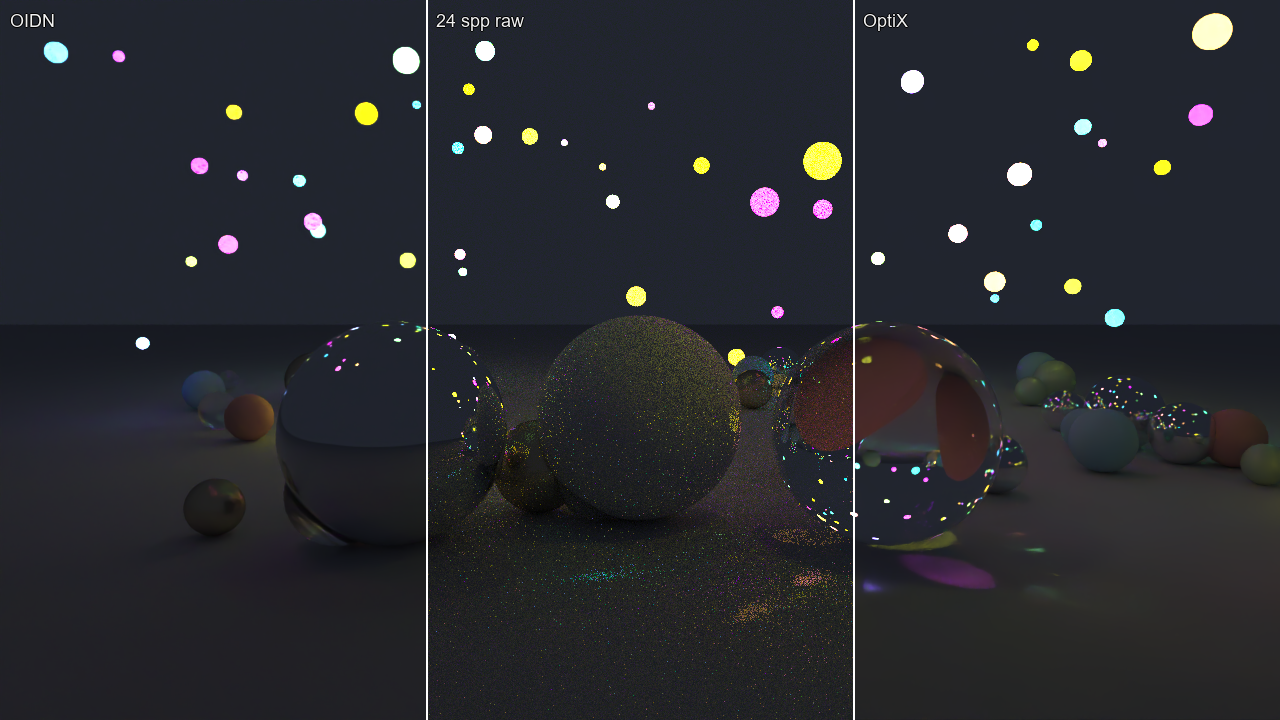
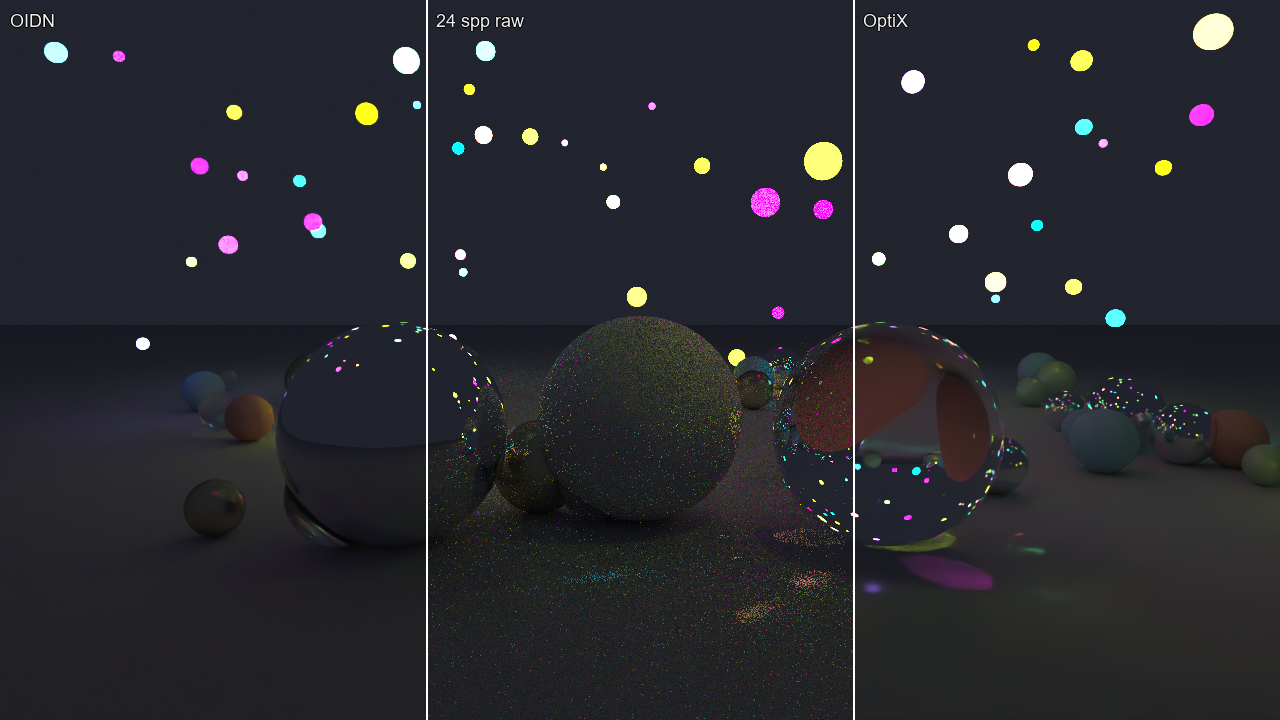
docs: README gallery refresh (6 tiles), STATUS + handoff for 2026-10-05
Six gallery tiles re-rendered on f3ef7319 and inspected against the
previous set. Black-hole lensing held back (regression, #1061) and prism
held back (brighter, clips the green band; exposure is an owner call).
The Kerr hero was not re-rendered (CPU GR run exceeded 90 min).

diff --git a/.astroray_plan/docs/next-session-prompt-2026-10-05.md b/.astroray_plan/docs/next-session-prompt-2026-10-05.md
@@ -1,0 +1,23 @@
+# Next session (written 2026-10-05 after the checkpoint verification pass)
+
+The 2026-10-04 checklist is done. Main is f3ef7319 plus the gate-scoring docs PR. Report: https://claude.ai/artifact/1wWmessxtbGiSt33NaFFcg (5 Oct update).
+
+## State
+- Full suite green on final main (CPU 2680, GPU 1634, corpus 645 + 91 xfail, 0 XPASS). `build_cuda/` and `dist/astroray/` are fresh (132c9749 build = f3ef7319 code).
+- Stage 0: (a) RED by 2.1 ms, (c) RED on SSIM only, (d) GREEN, (e) RED 10 high, (b)/(f) unmeasured. Details: `stage0-gate-scoring-2026-10-05.md`.
+
+## Owner decisions waiting
+1. Gate (c) evidence (40 MB npy) into git, LFS, or keep local. Same question for future (a) evidence (10 GB).
+2. Gate (c) metric: SSIM on two independent 128-spp noise patterns fails while means agree < 1 % (memory `ssim-wrong-gate-for-independent-rng`). Options: higher spp, denoised pair, or a noise-aware metric. Do not relax the threshold without the owner.
+3. README prism tile exposure (new render clips green; old tile kept). Rejected renders: `%LOCALAPPDATA%\…\scratchpad\renders_new_rejected` (session 31ea25ff) — re-render with `--only prism` after deciding.
+4. Ratify the corpus population so gate (b) can be scored.
+5. Close the 11 gate-(e) `not-applicable` issues after a lead check (list in `gate-e-triage-2026-10-05.md`).
+
+## Next work
+- #1061 GR black-hole regression: bisect with `render_readme_gallery.py --only blackhole` (preview) across 2e780100 / 75f34a85 / be340452 / 235319bc / eea4d776; add a connected-arc regression test.
+- Gate (a): 100k material edit p95 102 ms; a 2 ms win closes the row.
+- Gate (e) highs: #36, #895, #946, #947, #955, #1033, #1042, #1045, #1047, #1051.
+- #1060 parity SSIM: baseline build c91f3a9b, same Blender; check the two-sided Cycles light.
+- #1015 test-only fix (recipe on the issue).
+- `weekly_local_bench.ps1`: never wrap it in `gpu_locked_run.py` (its noise-bench step takes the lock itself → deadlock); its corpus pass overwrites the historical CSV of the same name.
+- README hero `render_readme_hero.py` (CPU GR, 1080p 4096 spp) did not finish in 90 min; the 2026-05 hero stays (owner: keep it).

diff --git a/.astroray_plan/docs/STATUS.md b/.astroray_plan/docs/STATUS.md
@@ -1,5 +1,13 @@
 # Astroray Status
 
+## 2026-10-05 CURRENT — checkpoint verification pass (Opus 5.5 lead)
+
+**Merged:** #1059 (#1057 GPU patch-cache ABA). **Suite on final main** (f3ef7319 build): CPU 2680 passed, GPU 1634 passed, 0 failures (34 min); corpus with `ASTRORAY_PYD_DIR` 645 passed / 91 xfailed / 0 XPASS. #1015 root cause posted (test scene has no variance in sampler-controlled dims; test-only fix).
+
+**Stage 0 scores** (`stage0-gate-scoring-2026-10-05.md`): (a) RED p95 102.1 ms (by 2.1 ms); (b) unmeasured (population unratified); (c) RED SSIM 0.78 terrace, ROI gaps < 1 %; (d) GREEN CPU+GPU; (e) RED 10 high of 79 (was 21, `gate-e-triage-2026-10-05.md`); (f) unmeasured (no clean host). Committed manifest carries (d)/(e); (a)/(c) evidence is local only (`%LOCALAPPDATA%\astroray-evidence\2026-10-05`).
+
+**README:** six gallery tiles refreshed; black-hole tile held back (regression #1061), prism held back (brighter, clips green; exposure for the owner); Kerr hero not re-rendered (CPU GR run exceeded 90 min; owner had said keep it). **Bench:** parity SSIM red (#1060, unattributed); noise-bench equal-time GPU efficiency 0.10 / 0.29.
+
 ## 2026-10-02 CURRENT — long-haul run closeout (2026-09-29 -> 2026-10-02)
 
 **Merged:** #984 pkg298, #985 (#953), #987 pkg311 P1, #999 pkg310, #1003 pkg305, #1008 pkg299 P0-1, #1009 (#988/#994/#989), #1011 (#1004/#1005), #1013 (#1012), #1014 pkg300 P0-1, #1010 (#1000). Direct to main: 54c54e7e (build script: negative exit codes no longer false-green), 89269a37 / d3beb878 / 1a13d7f0 / fdb7a530 (test tolerance fixes).
